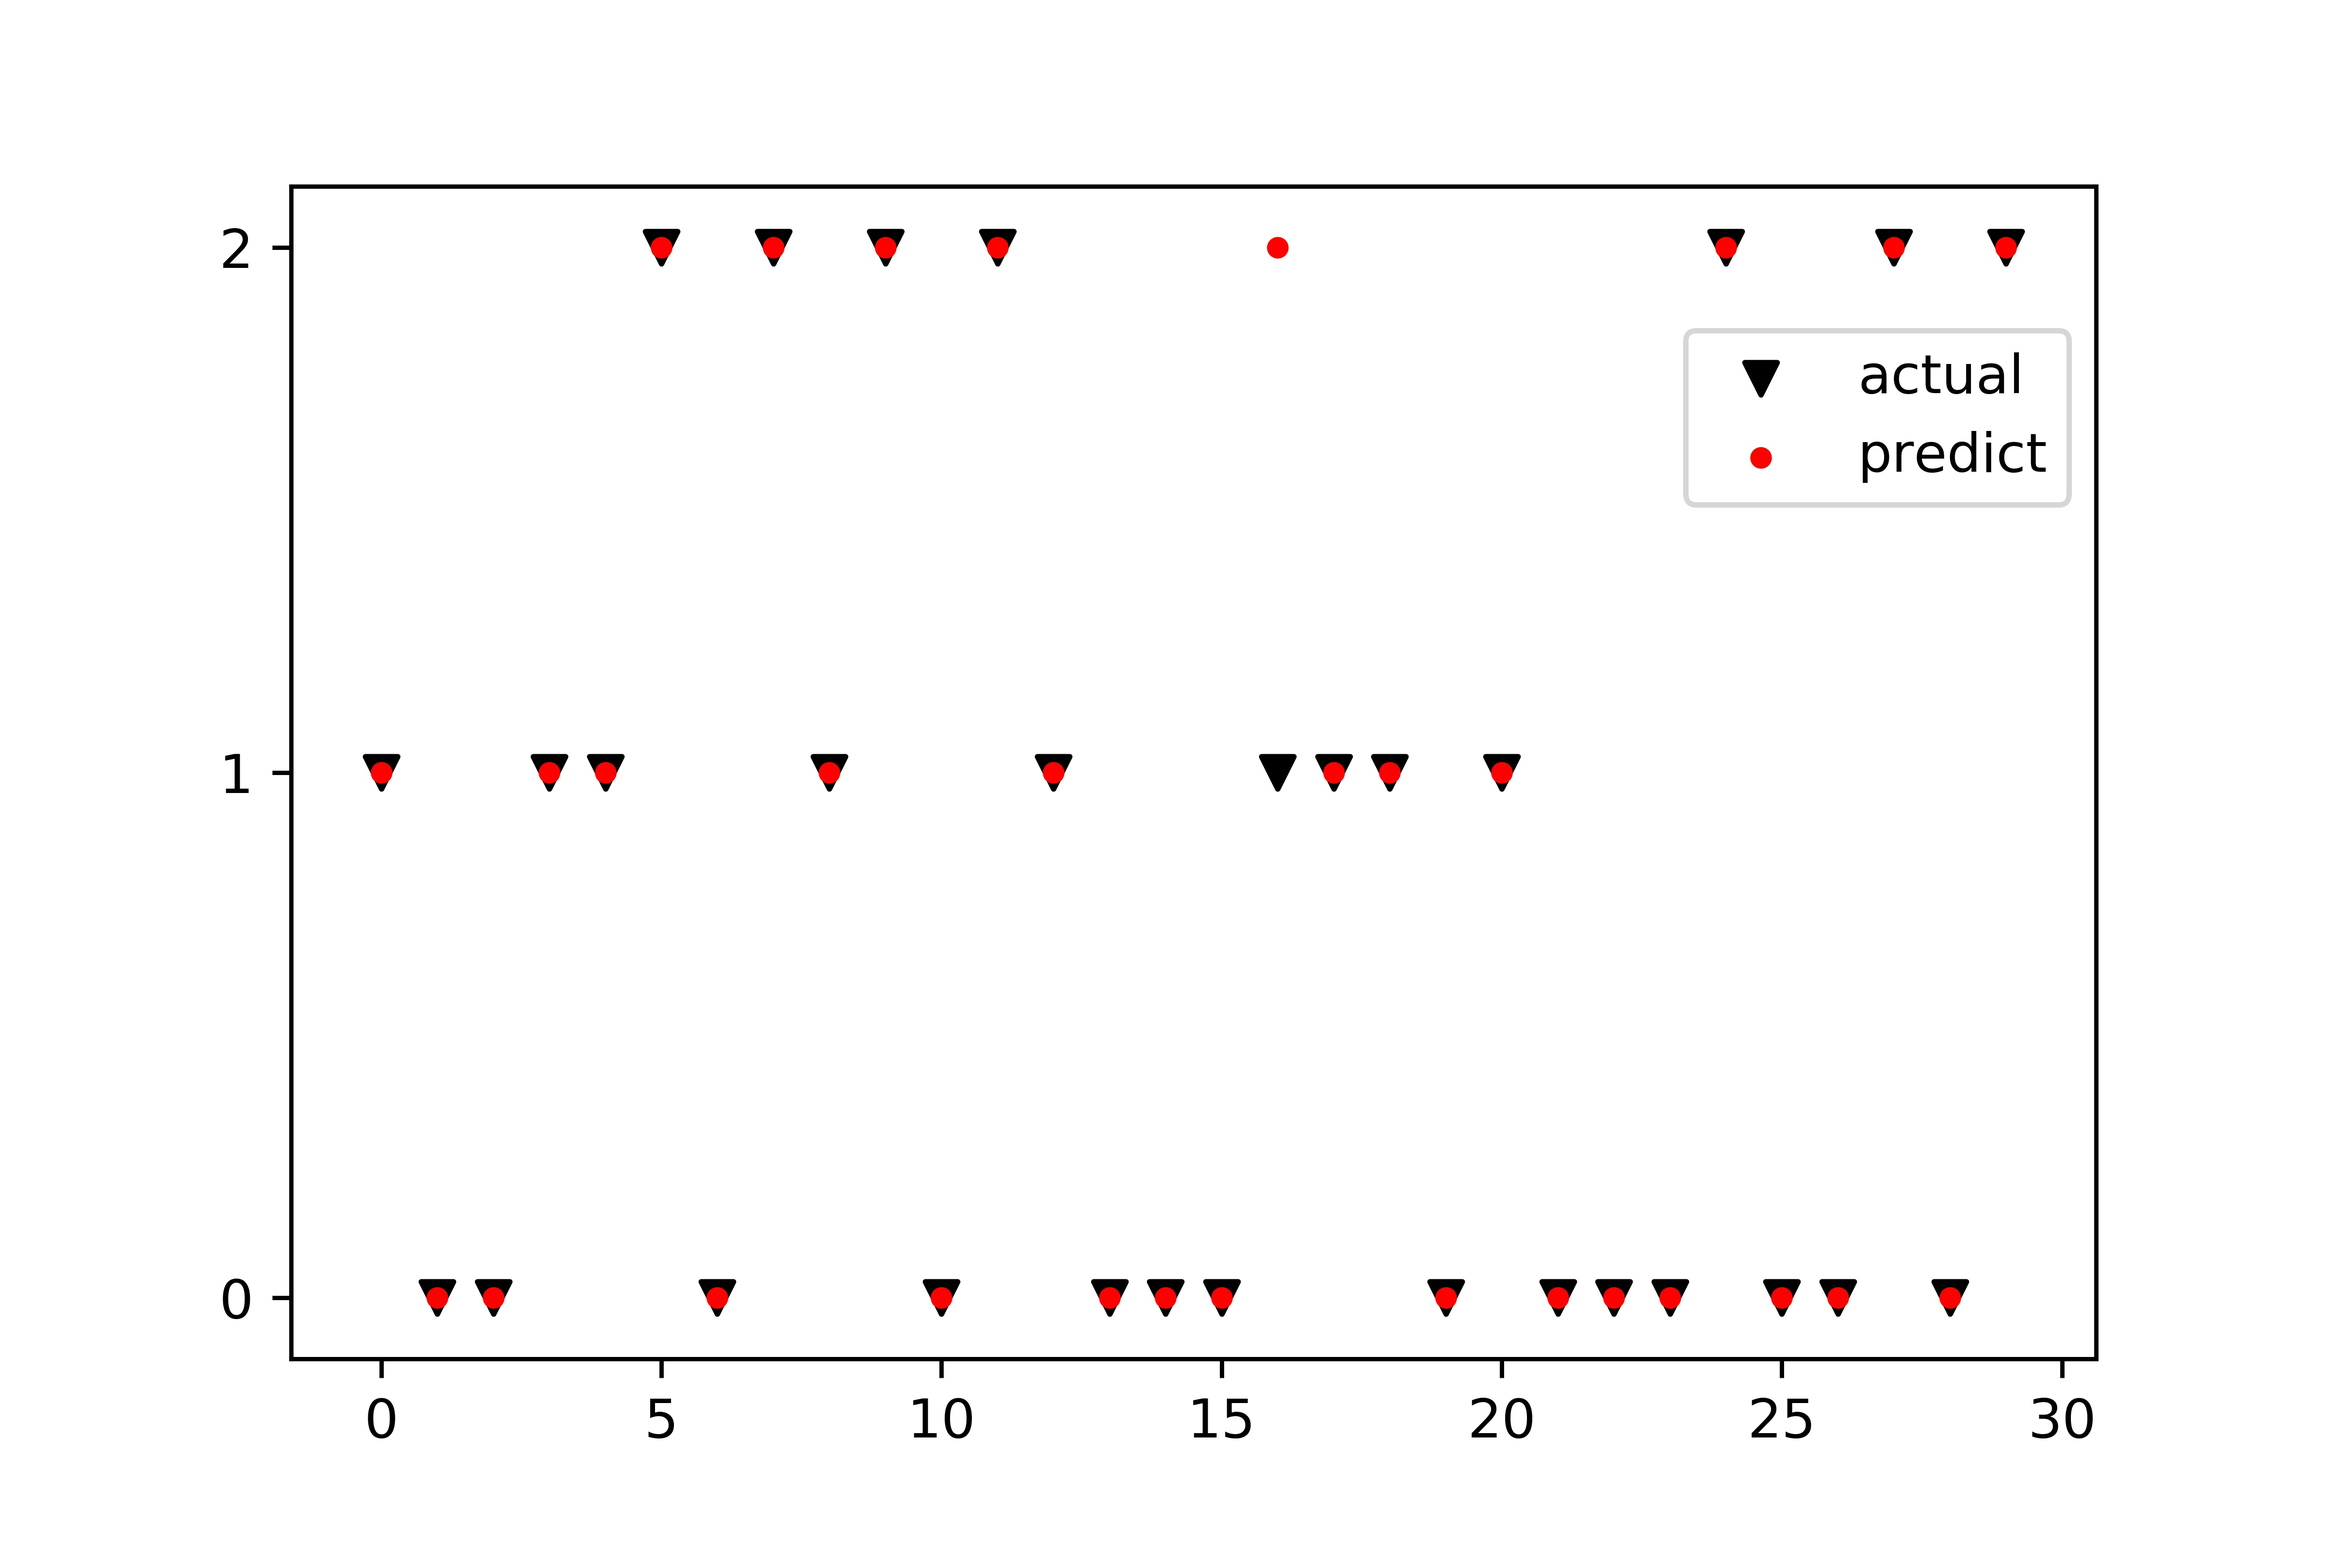
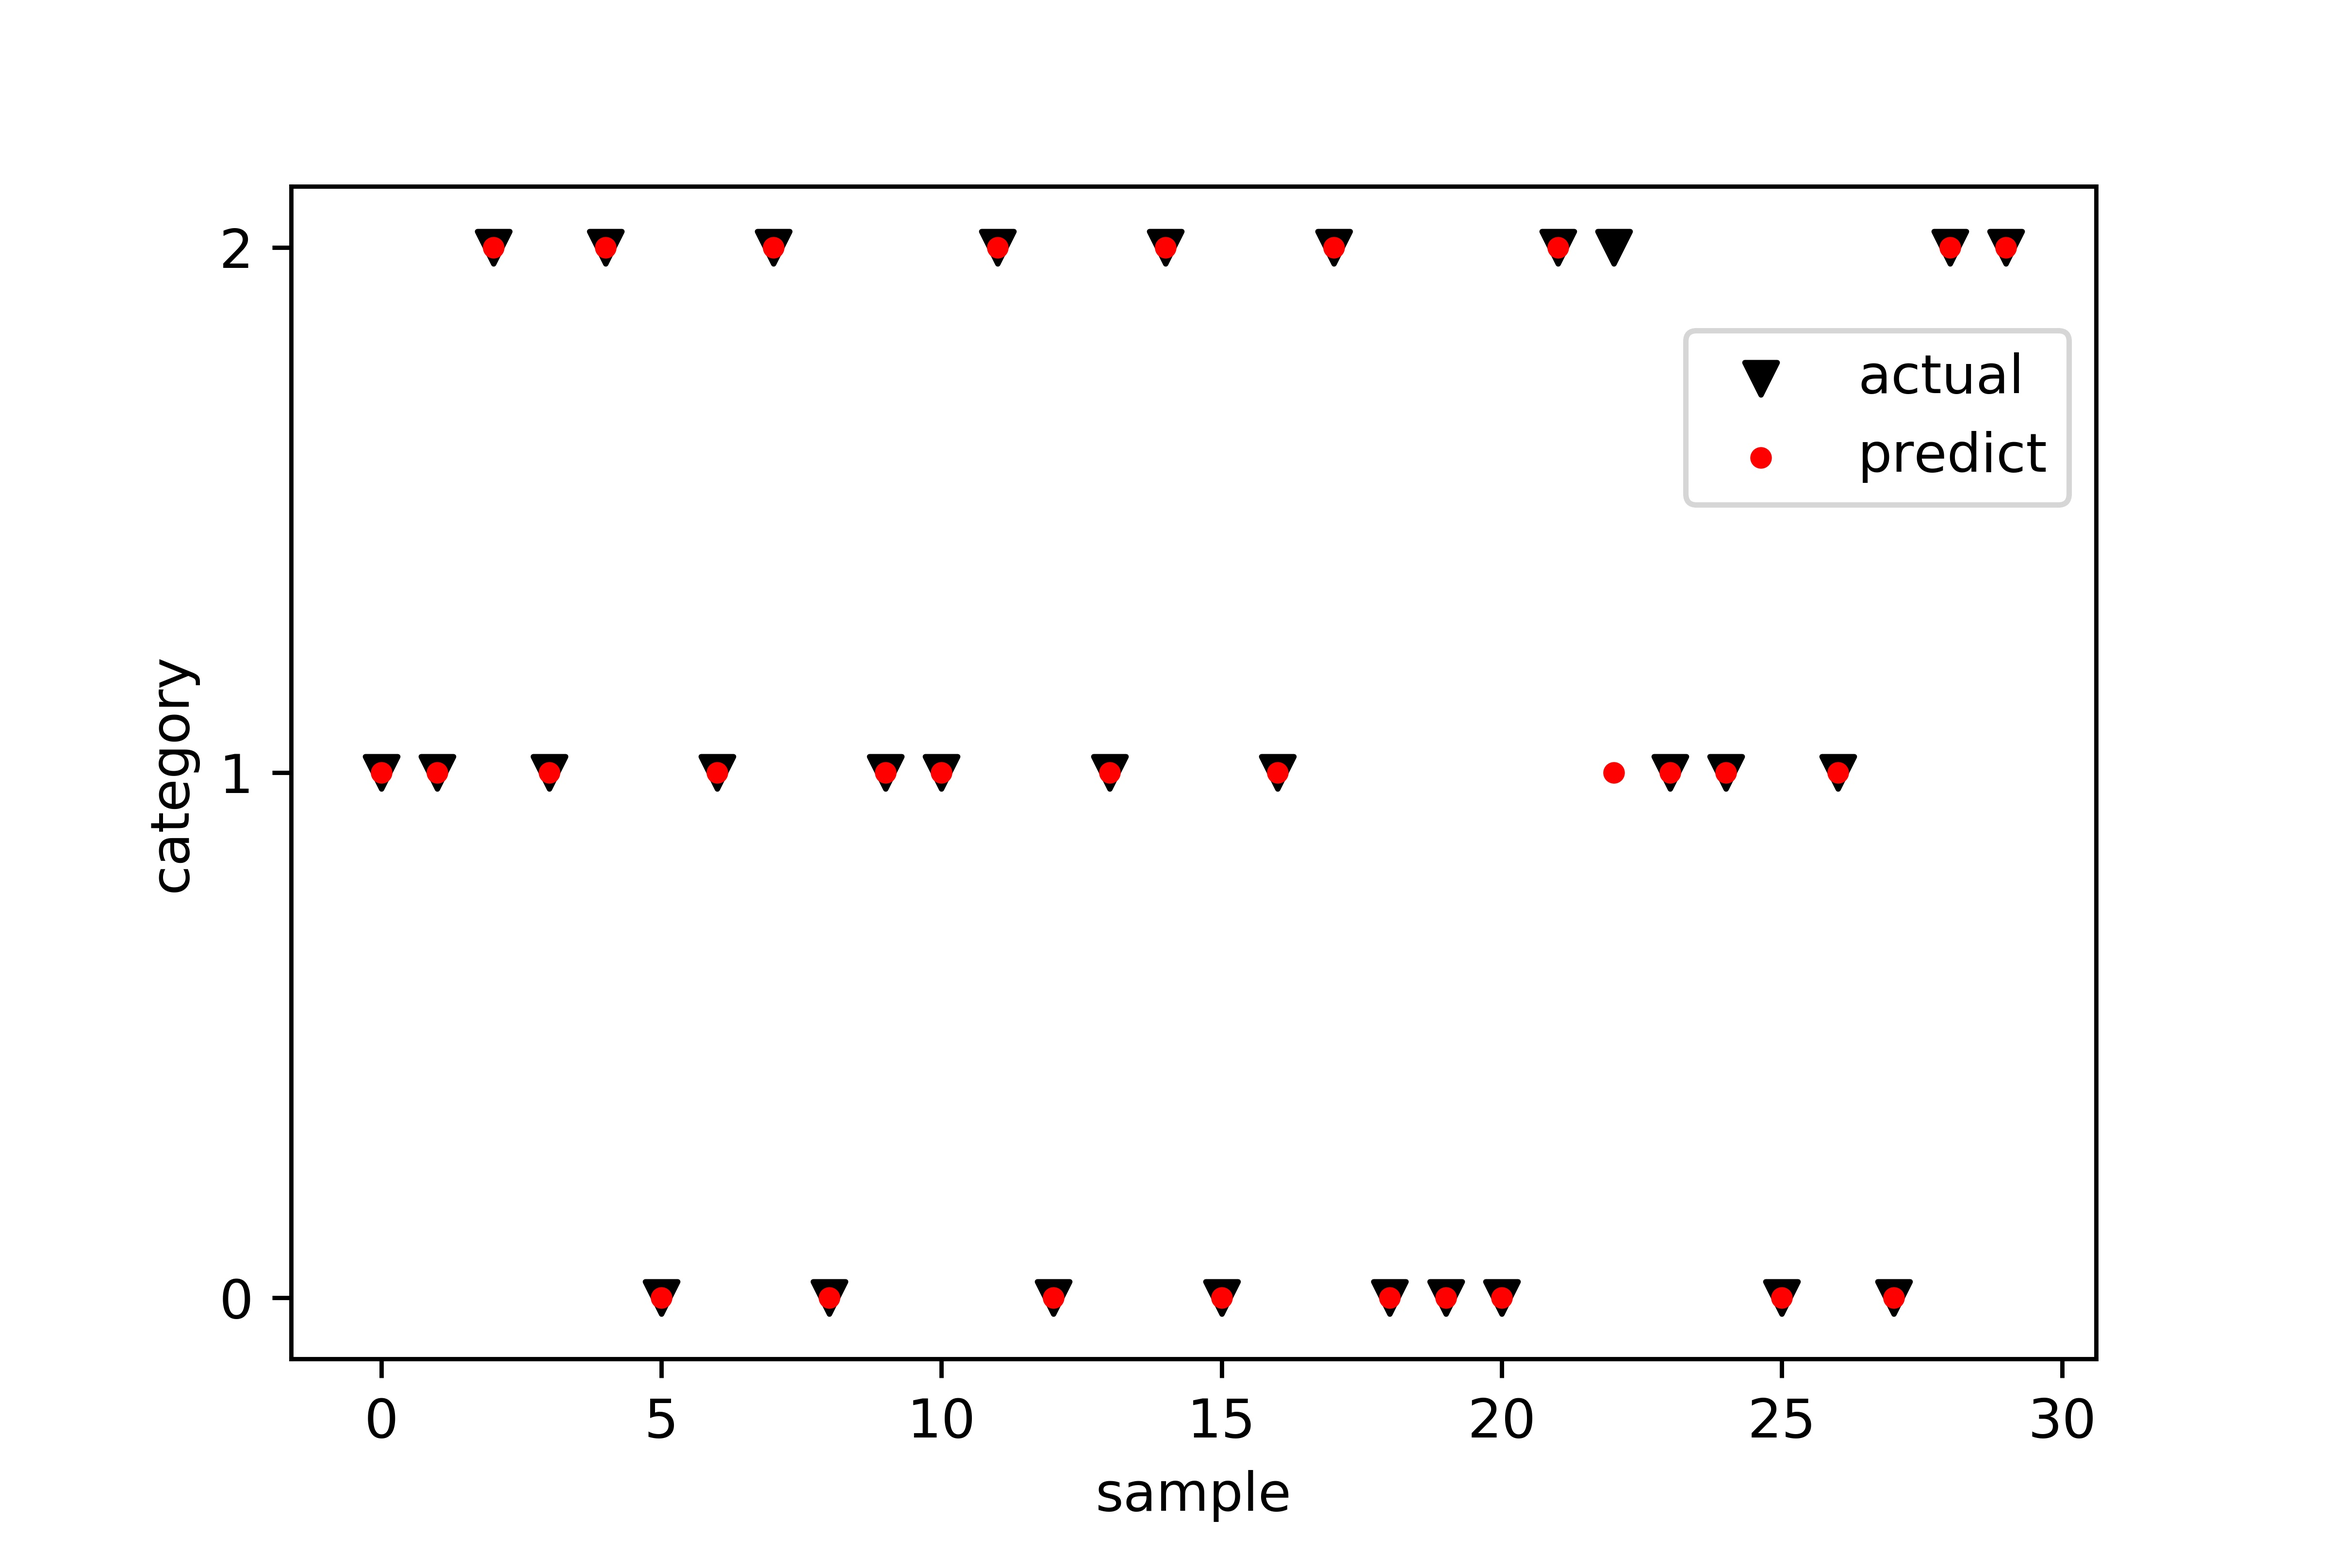
Site updated: 2020-04-25 15:36:54

diff --git a/2020/04/23/朴素贝叶斯对鸢尾花分类/index.html b/2020/04/23/朴素贝叶斯对鸢尾花分类/index.html
@@ -68,7 +68,7 @@
 
 
 
-  <meta name="keywords" content="朴素贝叶斯,有监督," />
+  <meta name="keywords" content="有监督,朴素贝叶斯," />
 
 
 
@@ -87,10 +87,10 @@
 <meta property="og:description" content="引子&amp;emsp;&amp;emsp;分类问题是机器学习的一个重要方向，这次博客主要介绍朴素贝叶斯分类算法。实战部分以鸢尾花数据集为例，讲解如何使用sklearn库对数据集进行朴素贝叶斯分类学习。 实战&amp;emsp;&amp;emsp;&amp;emsp;首先我们使用datasets模块导入鸢尾花数据集，并将字典类型的数据集转化为DataFrame类型，方便进行行列索引操作。 123456from sklearn.datas">
 <meta property="og:image" content="http://csliangl.github.io/2020/04/23/%E6%9C%B4%E7%B4%A0%E8%B4%9D%E5%8F%B6%E6%96%AF%E5%AF%B9%E9%B8%A2%E5%B0%BE%E8%8A%B1%E5%88%86%E7%B1%BB/predict0.2.jpg">
 <meta property="article:published_time" content="2020-04-23T13:03:52.000Z">
-<meta property="article:modified_time" content="2020-04-25T06:54:33.740Z">
+<meta property="article:modified_time" content="2020-04-25T07:35:48.104Z">
 <meta property="article:author" content="LiangL">
-<meta property="article:tag" content="朴素贝叶斯">
 <meta property="article:tag" content="有监督">
+<meta property="article:tag" content="朴素贝叶斯">
 <meta name="twitter:card" content="summary">
 <meta name="twitter:image" content="http://csliangl.github.io/2020/04/23/%E6%9C%B4%E7%B4%A0%E8%B4%9D%E5%8F%B6%E6%96%AF%E5%AF%B9%E9%B8%A2%E5%B0%BE%E8%8A%B1%E5%88%86%E7%B1%BB/predict0.2.jpg">
 
@@ -362,9 +362,9 @@
 <blockquote>
 <p>fit(X,Y):在数据集(X,Y)上拟合模型。<br>get_params():获取模型参数。<br>predict(X):对数据集X进行预测。<br>predict_log_proba(X):对数据集X预测，得到每个类别的概率对数值。predict_proba(X):对数据集X预测，得到每个类别的概率。<br>score(X,Y):得到模型在数据集(X,Y)的得分情况。</p>
 </blockquote>
-<p>&emsp;&emsp;了解了这些参数之后，我们就可以尝试训练了。首先划分数据集前80%为训练集，后20%为测试集。然后实例化GaussianNB，进行训练。<br><figure class="highlight python"><table><tr><td class="gutter"><pre><span class="line">1</span><br><span class="line">2</span><br><span class="line">3</span><br><span class="line">4</span><br><span class="line">5</span><br><span class="line">6</span><br><span class="line">7</span><br></pre></td><td class="code"><pre><span class="line"><span class="comment"># train_test_split (*arrays，test_size, train_size, rondom_state=None, shuffle=True, stratify=None)</span></span><br><span class="line"><span class="comment"># 建议使用此函数划分数据集,默认是打乱了原始数据的.</span></span><br><span class="line"><span class="keyword">from</span> sklearn.model_selection <span class="keyword">import</span> train_test_split</span><br><span class="line"><span class="keyword">from</span> sklearn.naive_bayes <span class="keyword">import</span> GaussianNB</span><br><span class="line">train_X, test_X, train_y, test_y = train_test_split(df_ds.values[:, :<span class="number">-1</span>], df_ds.values[:, <span class="number">-1</span>], test_size=<span class="number">0.2</span>)</span><br><span class="line">gnb = GaussianNB()</span><br><span class="line">gnb.fit(train_X, train_y)</span><br></pre></td></tr></table></figure><br>&emsp;&emsp;训练过后，使用测试集来对模型进行检验，计算正确率与得分。<br><figure class="highlight python"><table><tr><td class="gutter"><pre><span class="line">1</span><br><span class="line">2</span><br><span class="line">3</span><br><span class="line">4</span><br><span class="line">5</span><br><span class="line">6</span><br><span class="line">7</span><br><span class="line">8</span><br><span class="line">9</span><br><span class="line">10</span><br><span class="line">11</span><br><span class="line">12</span><br><span class="line">13</span><br><span class="line">14</span><br></pre></td><td class="code"><pre><span class="line"><span class="keyword">import</span> matplotlib.pyplot <span class="keyword">as</span> plt</span><br><span class="line">%matplotlib inline</span><br><span class="line">y = gnb.predict(test_X)</span><br><span class="line">df_pred = pd.DataFrame(y, columns=[<span class="string">'预测值'</span>])</span><br><span class="line">df_pred[<span class="string">'真实值'</span>] =test_y</span><br><span class="line">plt.scatter([i <span class="keyword">for</span> i <span class="keyword">in</span> range(len(test_X))], test_y, color=<span class="string">"black"</span>, marker=<span class="string">'v'</span>)</span><br><span class="line">plt.scatter([i <span class="keyword">for</span> i <span class="keyword">in</span> range(len(test_X))], y, color=<span class="string">"red"</span>, marker=<span class="string">"."</span>)</span><br><span class="line">plt.yticks([<span class="number">0</span>, <span class="number">1</span>, <span class="number">2</span>])</span><br><span class="line">plt.legend([<span class="string">'actual'</span>, <span class="string">'predict'</span>], bbox_to_anchor=(<span class="number">1</span>, <span class="number">0.9</span>))</span><br><span class="line">plt.savefig(<span class="string">"predict0.2.jpg"</span>, dpi=<span class="number">800</span>)</span><br><span class="line">right = len(df_pred[df_pred[<span class="string">'预测值'</span>]==df_pred[<span class="string">"真实值"</span>]])</span><br><span class="line">total= df_pred.shape[<span class="number">0</span>]</span><br><span class="line">print(<span class="string">"预测的准确率:&#123;:.2%&#125;"</span>.format(right/total))</span><br><span class="line">print(<span class="string">"得分:&#123;:.2f&#125;"</span>.format(gnb.score(test_X, test_y)))</span><br></pre></td></tr></table></figure><br>&emsp;&emsp;输出为</p>
+<p>&emsp;&emsp;了解了这些参数之后，我们就可以尝试训练了。首先划分数据集前80%为训练集，后20%为测试集。然后实例化GaussianNB，进行训练。<br><figure class="highlight python"><table><tr><td class="gutter"><pre><span class="line">1</span><br><span class="line">2</span><br><span class="line">3</span><br><span class="line">4</span><br><span class="line">5</span><br><span class="line">6</span><br><span class="line">7</span><br></pre></td><td class="code"><pre><span class="line"><span class="comment"># train_test_split (*arrays，test_size, train_size, rondom_state=None, shuffle=True, stratify=None)</span></span><br><span class="line"><span class="comment"># 建议使用此函数划分数据集,默认是打乱了原始数据的.</span></span><br><span class="line"><span class="keyword">from</span> sklearn.model_selection <span class="keyword">import</span> train_test_split</span><br><span class="line"><span class="keyword">from</span> sklearn.naive_bayes <span class="keyword">import</span> GaussianNB</span><br><span class="line">train_X, test_X, train_y, test_y = train_test_split(df_ds.values[:, :<span class="number">-1</span>], df_ds.values[:, <span class="number">-1</span>], test_size=<span class="number">0.2</span>)</span><br><span class="line">gnb = GaussianNB()</span><br><span class="line">gnb.fit(train_X, train_y)</span><br></pre></td></tr></table></figure><br>&emsp;&emsp;训练过后，使用测试集来对模型进行检验，计算正确率与得分。<br><figure class="highlight python"><table><tr><td class="gutter"><pre><span class="line">1</span><br><span class="line">2</span><br><span class="line">3</span><br><span class="line">4</span><br><span class="line">5</span><br><span class="line">6</span><br><span class="line">7</span><br><span class="line">8</span><br><span class="line">9</span><br><span class="line">10</span><br><span class="line">11</span><br></pre></td><td class="code"><pre><span class="line"><span class="keyword">import</span> matplotlib.pyplot <span class="keyword">as</span> plt</span><br><span class="line">%matplotlib inline</span><br><span class="line">y = gnb.predict(test_X)</span><br><span class="line">plt.scatter([i <span class="keyword">for</span> i <span class="keyword">in</span> range(len(test_X))], test_y, color=<span class="string">"black"</span>, marker=<span class="string">'v'</span>)</span><br><span class="line">plt.scatter([i <span class="keyword">for</span> i <span class="keyword">in</span> range(len(test_X))], y, color=<span class="string">"red"</span>, marker=<span class="string">"."</span>)</span><br><span class="line">plt.yticks([<span class="number">0</span>, <span class="number">1</span>, <span class="number">2</span>])</span><br><span class="line">plt.xlabel(<span class="string">"sample"</span>)</span><br><span class="line">plt.ylabel(<span class="string">"category"</span>)</span><br><span class="line">plt.legend([<span class="string">'actual'</span>, <span class="string">'predict'</span>], bbox_to_anchor=(<span class="number">1</span>, <span class="number">0.9</span>))</span><br><span class="line">plt.savefig(<span class="string">"predict0.2.jpg"</span>, dpi=<span class="number">800</span>)</span><br><span class="line">print(<span class="string">"准确率:&#123;:.2%&#125;"</span>.format(gnb.score(test_X, test_y)))</span><br></pre></td></tr></table></figure><br>&emsp;&emsp;输出为</p>
 <blockquote>
-<p>预测的准确率:96.67%<br>得分:0.97</p>
+<p>准确率:96.67%</p>
 </blockquote>
 <p><img src="/2020/04/23/%E6%9C%B4%E7%B4%A0%E8%B4%9D%E5%8F%B6%E6%96%AF%E5%AF%B9%E9%B8%A2%E5%B0%BE%E8%8A%B1%E5%88%86%E7%B1%BB/predict0.2.jpg" alt="predict0.2"></p>
 <p>&emsp;&emsp;可以看出来朴素贝叶斯的分类能力还是比较强的，准确率达到96%以上，从图中也可以看的出来，30个样本中，只预测错误了一个。</p>
@@ -386,9 +386,9 @@
       
         <div class="post-tags">
           
-            <a href="/tags/%E6%9C%B4%E7%B4%A0%E8%B4%9D%E5%8F%B6%E6%96%AF/" rel="tag"># 朴素贝叶斯</a>
-          
             <a href="/tags/%E6%9C%89%E7%9B%91%E7%9D%A3/" rel="tag"># 有监督</a>
+          
+            <a href="/tags/%E6%9C%B4%E7%B4%A0%E8%B4%9D%E5%8F%B6%E6%96%AF/" rel="tag"># 朴素贝叶斯</a>
           
         </div>
       

diff --git a/2020/04/21/线性回归预测房价/index.html b/2020/04/21/线性回归预测房价/index.html
@@ -68,7 +68,7 @@
 
 
 
-  <meta name="keywords" content="有监督,线性回归,极大似然估计,均方误差,最小二乘法,梯度下降法," />
+  <meta name="keywords" content="线性回归,极大似然估计,均方误差,最小二乘法,梯度下降法,有监督," />
 
 
 
@@ -90,12 +90,12 @@
 <meta property="article:published_time" content="2020-04-20T16:14:10.000Z">
 <meta property="article:modified_time" content="2020-04-25T06:55:20.055Z">
 <meta property="article:author" content="LiangL">
-<meta property="article:tag" content="有监督">
 <meta property="article:tag" content="线性回归">
 <meta property="article:tag" content="极大似然估计">
 <meta property="article:tag" content="均方误差">
 <meta property="article:tag" content="最小二乘法">
 <meta property="article:tag" content="梯度下降法">
+<meta property="article:tag" content="有监督">
 <meta name="twitter:card" content="summary">
 <meta name="twitter:image" content="http://csliangl.github.io/2020/04/21/%E7%BA%BF%E6%80%A7%E5%9B%9E%E5%BD%92%E9%A2%84%E6%B5%8B%E6%88%BF%E4%BB%B7/factor.jpg">
 
@@ -422,8 +422,6 @@ log L(\boldsymbol\omega)
       
         <div class="post-tags">
           
-            <a href="/tags/%E6%9C%89%E7%9B%91%E7%9D%A3/" rel="tag"># 有监督</a>
-          
             <a href="/tags/%E7%BA%BF%E6%80%A7%E5%9B%9E%E5%BD%92/" rel="tag"># 线性回归</a>
           
             <a href="/tags/%E6%9E%81%E5%A4%A7%E4%BC%BC%E7%84%B6%E4%BC%B0%E8%AE%A1/" rel="tag"># 极大似然估计</a>
@@ -433,6 +431,8 @@ log L(\boldsymbol\omega)
             <a href="/tags/%E6%9C%80%E5%B0%8F%E4%BA%8C%E4%B9%98%E6%B3%95/" rel="tag"># 最小二乘法</a>
           
             <a href="/tags/%E6%A2%AF%E5%BA%A6%E4%B8%8B%E9%99%8D%E6%B3%95/" rel="tag"># 梯度下降法</a>
+          
+            <a href="/tags/%E6%9C%89%E7%9B%91%E7%9D%A3/" rel="tag"># 有监督</a>
           
         </div>
       

diff --git a/css/main.css b/css/main.css
@@ -1822,7 +1822,7 @@ pre .javascript .function {
   width: 4px;
   height: 4px;
   border-radius: 50%;
-  background: #0865ff;
+  background: #47bd7c;
 }
 .links-of-blogroll {
   font-size: 13px;
